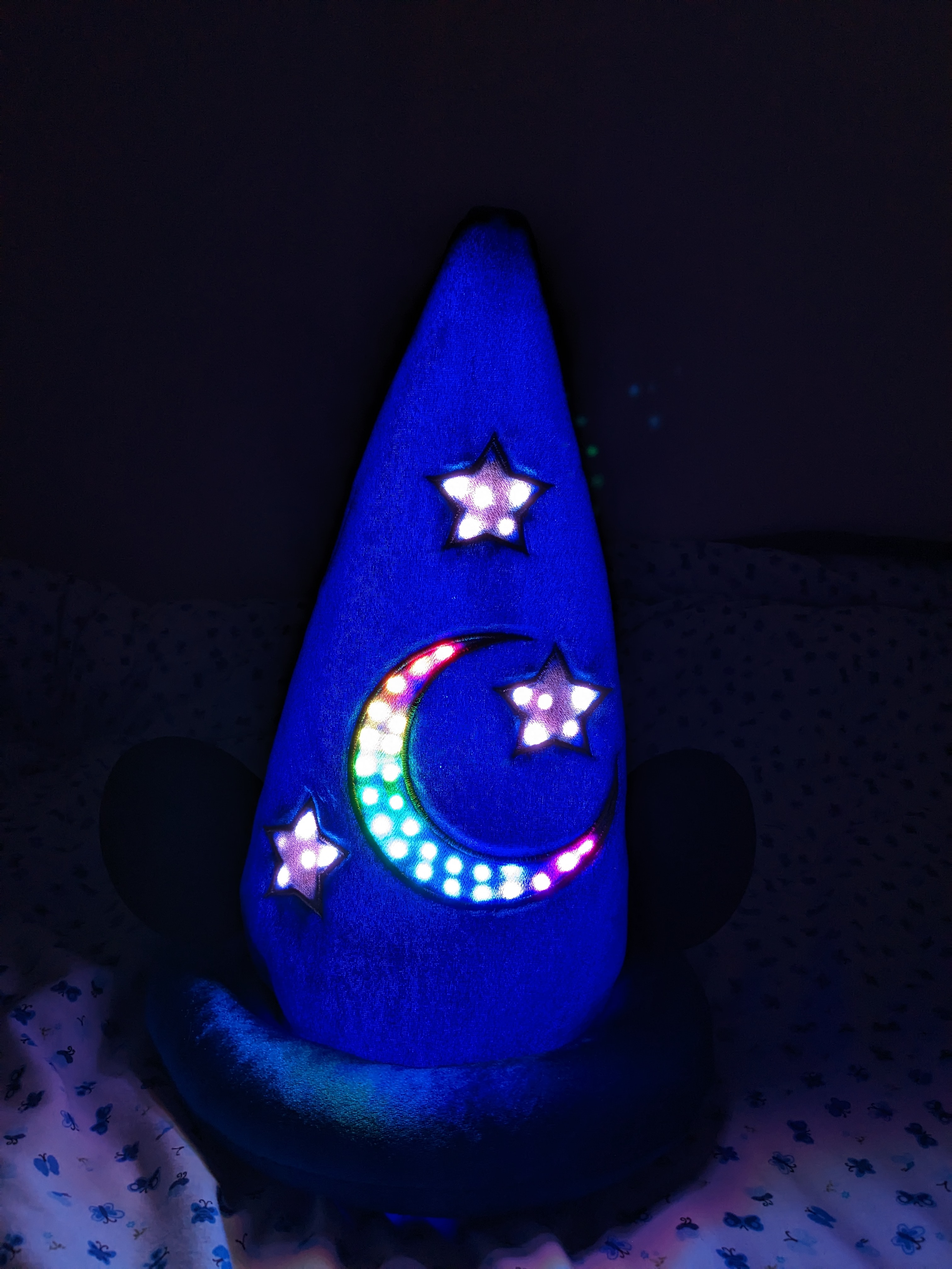
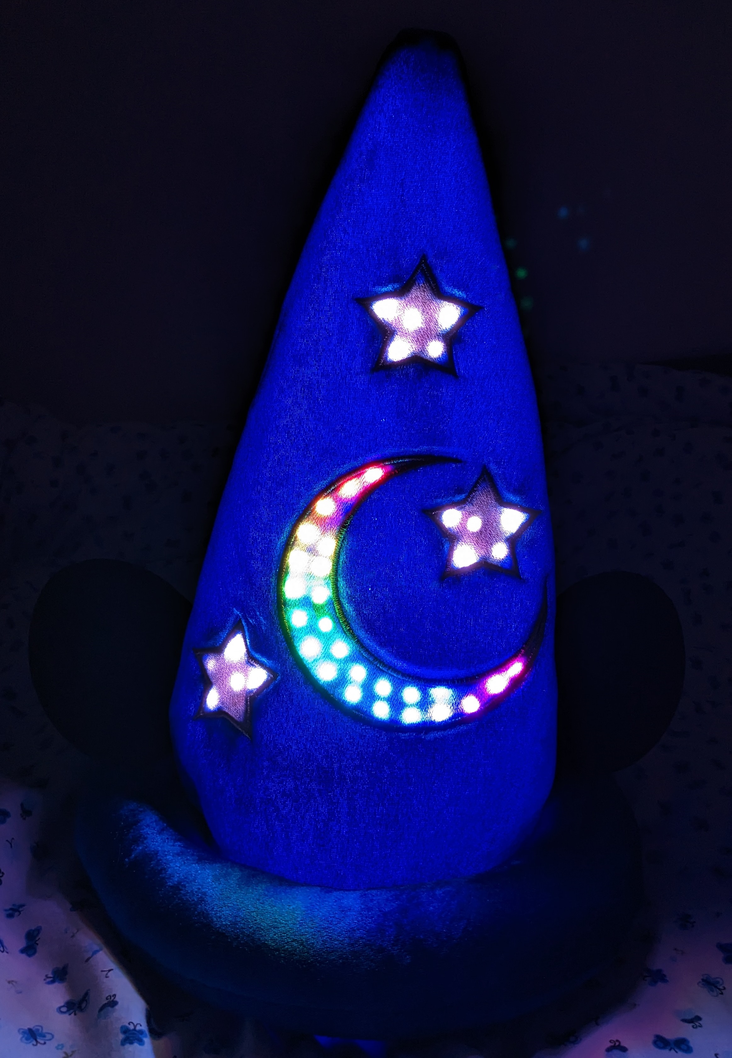
Updated main photo to not be shrunk

diff --git a/projects/_posts/2023-6-4-LED-Sorcerer-Hat.md b/projects/_posts/2023-6-4-LED-Sorcerer-Hat.md
@@ -3,7 +3,7 @@ layout: post
 category: projects
 title: LED Sorcerer Hat
 ---
-<img class="shrunk" src="/images/projects/LED Sorcerer Hat/hat in dark.jpg" alt="Illuminated sorcerer hat in a dark room">
+![Illuminated sorcerer hat in a dark room](/images/projects/LED Sorcerer Hat/hat in dark.jpg)
 
 The basic LEDs that come in the Mickey sorcerer hat that Disney sells are rather pathetic. *We can rebuild him. We have the technology.* <!--more-->
 
